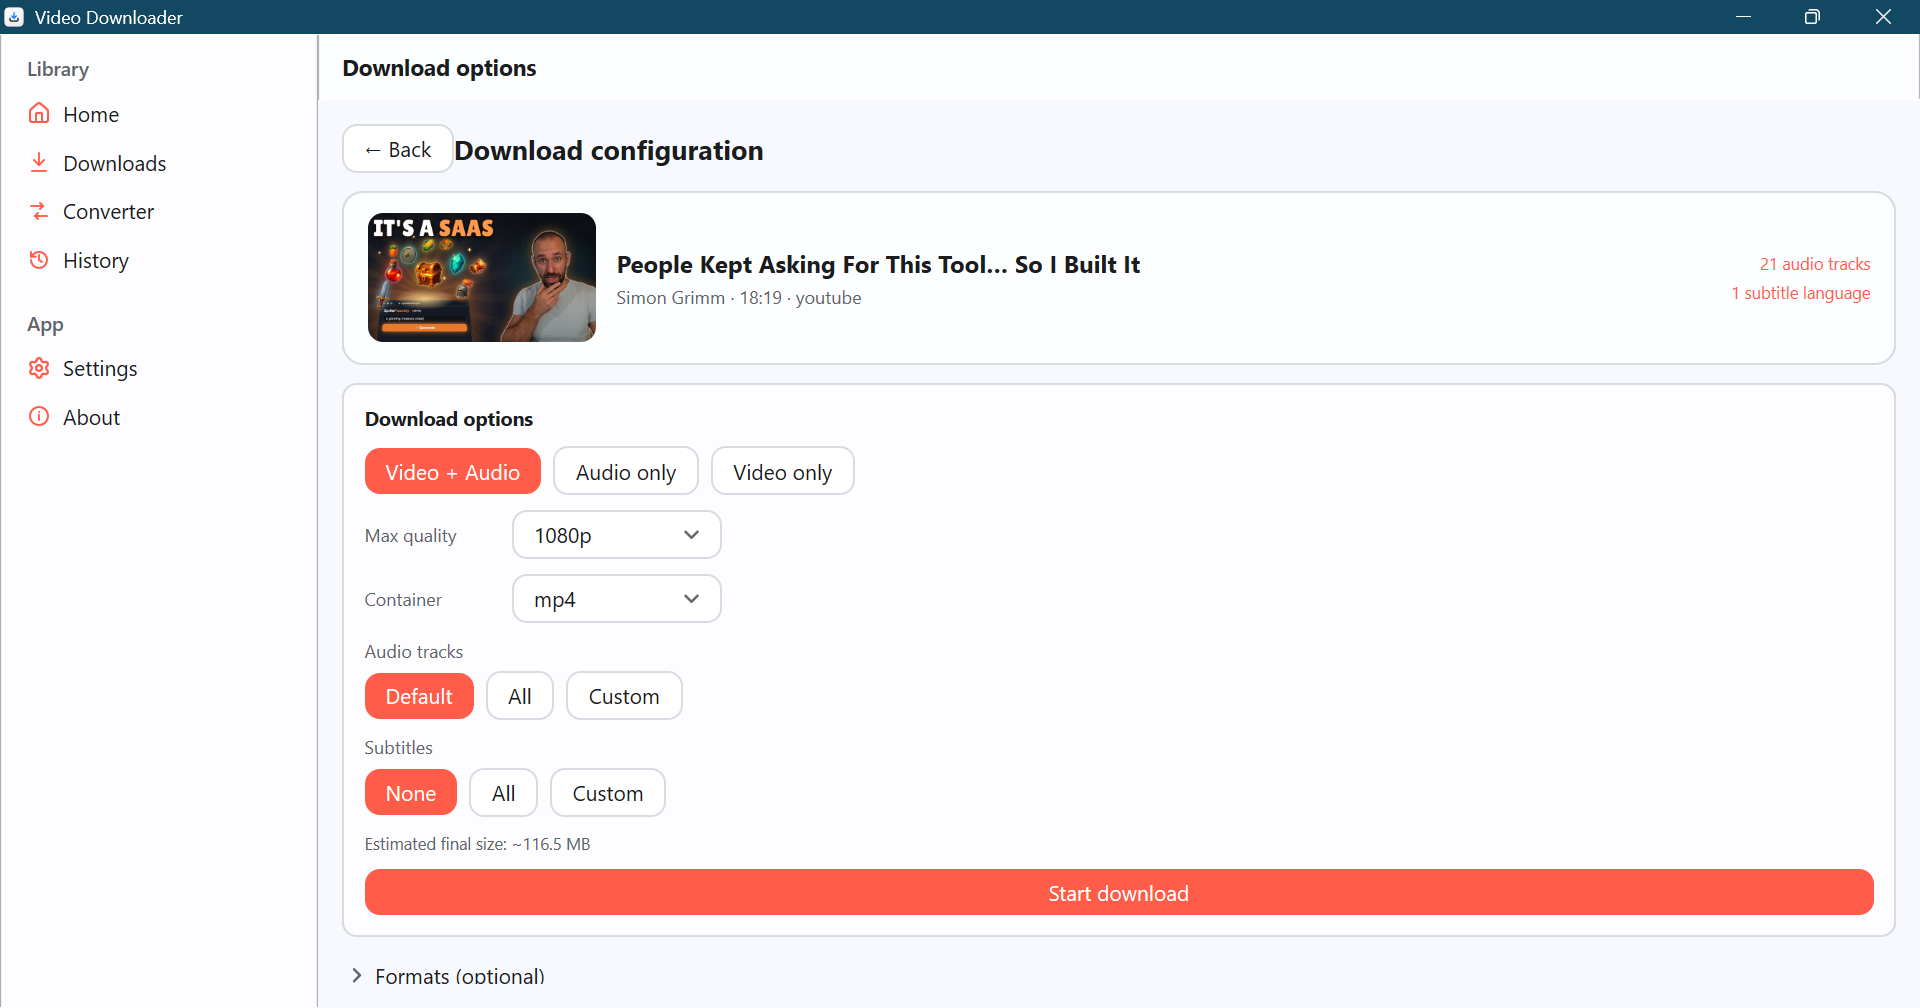
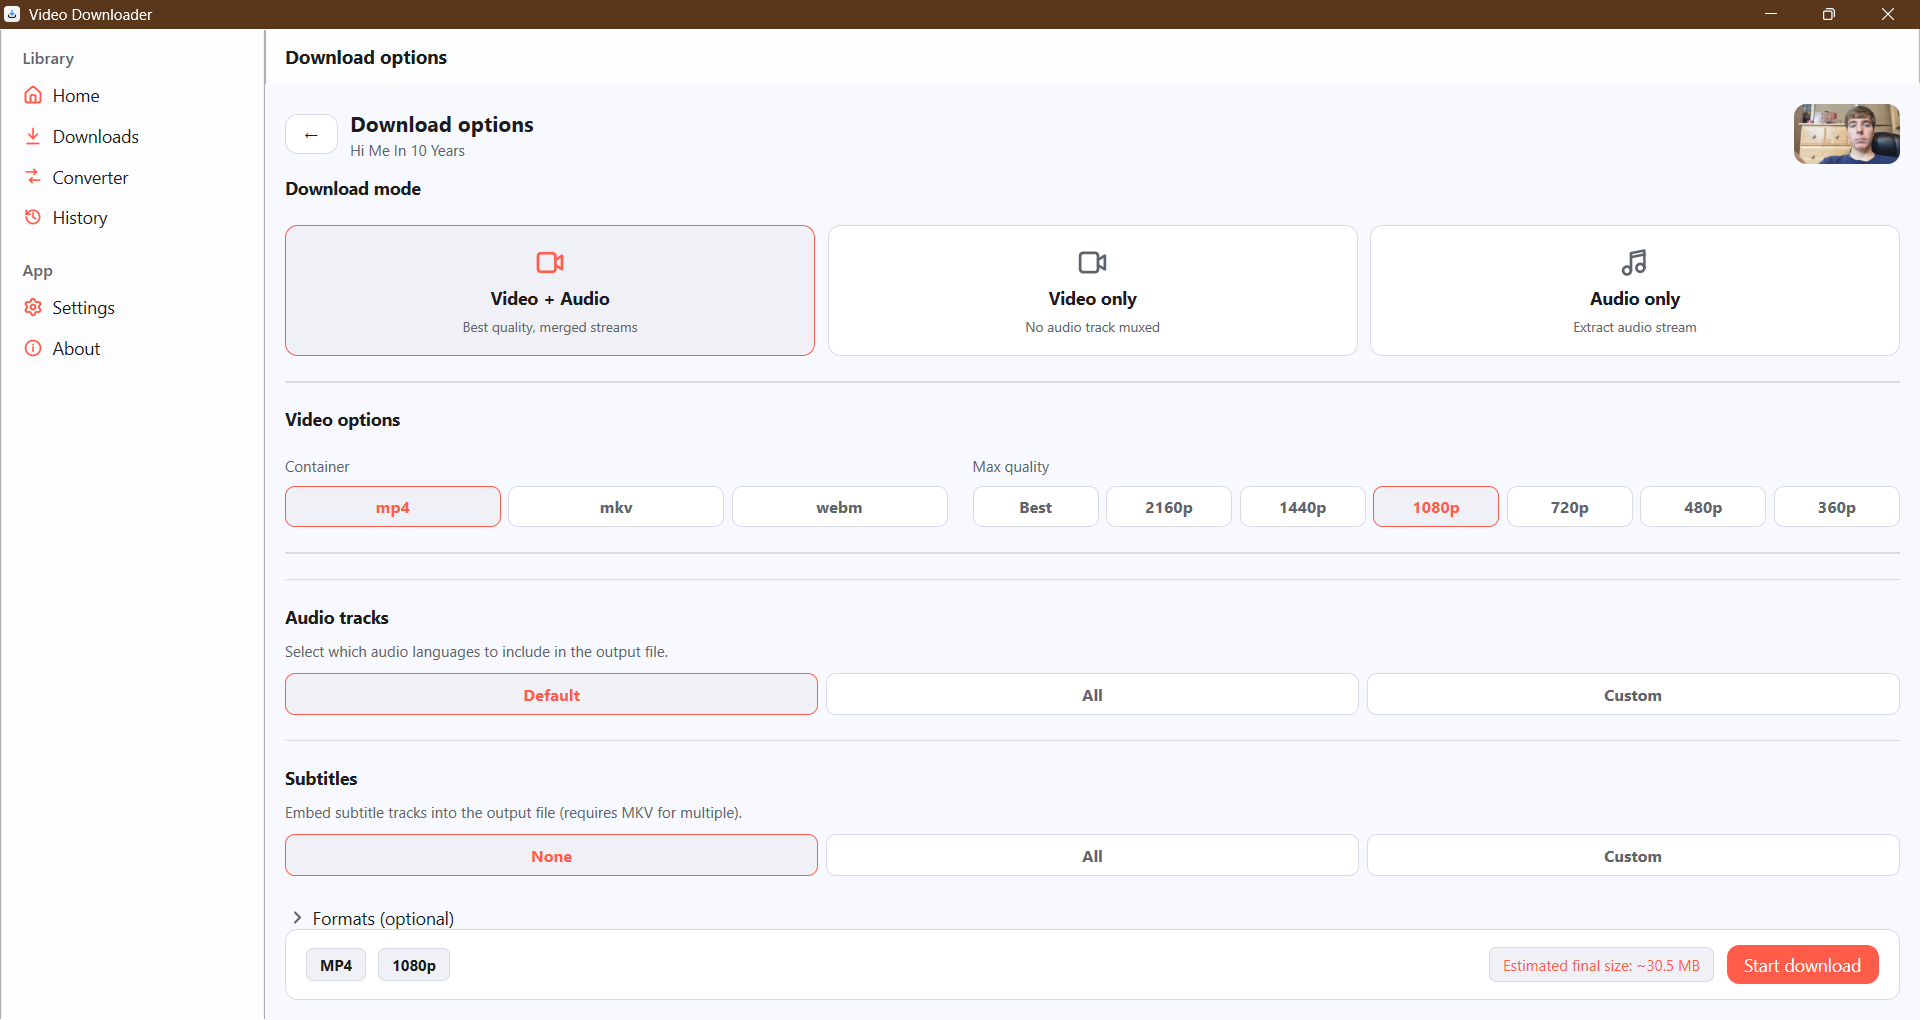
feat: redesign About screen to match reference app UI
- Centered 620px card with 1:2 vertical spacing above/below
- Large 84x84 accent logo box (radius 20, white icon)
- App name 28px bold; version pill (SurfaceHover + border + 999 radius)
- Description text 14px muted, maxwidth 460
- Divider separator
- Developer credit + outlined link buttons with icon+label
  (GitHub, Website, Reference app, Repository, Report issue)
- Tech stack row: Go / MyGo / yt-dlp / FFmpeg chips
- License line via ui.Link
- New aboutLinkBtn helper (ui.Row + border + ui.Icon + ui.Link)
- Also compress resources/audio.png (57KB reduction)

diff --git a/internal/app/preferences_view.go b/internal/app/preferences_view.go
@@ -246,30 +246,77 @@ func (a *App) refinedSettingsPage(c *ui.Context) {
 
 func (a *App) refinedAboutPage(c *ui.Context) {
 	t := c.Theme()
-	ui.Scroll(c).Grow(1).Children(func() {
-		ui.Column(c).FillWidth().MaxWidth(700).Material(glass.Glass{Clarity: 0.2}).Border(1, c.Theme().Border).Radius(16).Center().Gap(10).Padding(24, 12).Children(func() {
-			ui.Box(c).Size(72, 72).Background(t.Accent).Radius(22).Center().Children(func() {
-				ui.Icon(c, appui.IconDownload).FontSize(34).TextColor(ui.Color{R: 255, G: 255, B: 255, A: 255})
-			})
-			ui.Text(c, "Video Downloader").FontSize(24).Bold()
-			ui.Text(c, "MyGo native desktop app").FontSize(13).TextColor(t.TextMuted)
-			ui.Text(c, "v3.2.0").FontSize(12).TextColor(t.Accent)
-			ui.Text(c, "Rewritten from the Flet + Python original by Fazi Gondal.").FontSize(13).TextColor(t.TextMuted).MaxWidth(480)
+	// Center the card vertically: 1 unit of space above, 2 below (matches reference).
+	ui.Column(c).Grow(1).FillWidth().Children(func() {
+		ui.Spacer(c).Grow(1)
+		ui.Scroll(c).FillWidth().Children(func() {
+			ui.Column(c).FillWidth().Center().Padding(0, 16).Children(func() {
+				// ── card ─────────────────────────────────────────────────────
+				ui.Column(c).Width(620).Background(t.Surface).Border(1, t.Border).Radius(16).Padding(36, 40).Gap(14).AlignItems(ui.Center).Children(func() {
 
-			ui.Row(c).Gap(8).Wrap().Justify(ui.Center).Children(func() {
-				techChip(c, "Go")
-				techChip(c, "MyGo")
-				techChip(c, "yt-dlp")
-				techChip(c, "FFmpeg")
-			})
-			ui.Row(c).Gap(14).Wrap().Justify(ui.Center).Children(func() {
-				ui.Link(c, "Original reference", "https://github.com/fazi-gondal/Video-Downloader")
-				ui.Link(c, "Project repository", "https://github.com/fazi-gondal/video-downloader-mygo")
-				ui.Link(c, "Report an issue", "https://github.com/fazi-gondal/video-downloader-mygo/issues")
-				ui.Link(c, "MIT license", "https://github.com/fazi-gondal/video-Downloader-mygo/blob/main/LICENSE")
+					// Logo
+					ui.Box(c).Size(84, 84).Background(t.Accent).Radius(20).Center().Children(func() {
+						ui.Icon(c, appui.IconDownload).FontSize(40).TextColor(ui.Color{R: 255, G: 255, B: 255, A: 255})
+					})
+
+					// App name
+					ui.Text(c, "Video Downloader").FontSize(28).Bold()
+
+					// Version pill
+					ui.Row(c).Background(t.SurfaceHover).Border(1, t.Border).Radius(999).Padding(5, 14).Children(func() {
+						ui.Text(c, "v3.0.0 · Open-source media downloader").FontSize(12).Bold().TextColor(t.TextMuted)
+					})
+
+					// Description
+					ui.Text(c, "Download, convert, and organize media from YouTube, TikTok, Instagram, X, ARY Plus, and more. Native Go desktop app — fast, lightweight, no Electron.").
+						FontSize(14).TextColor(t.TextMuted).MaxWidth(460)
+
+					// Divider
+					ui.Box(c).FillWidth().Height(1).Background(t.Border)
+
+					// Developer credit
+					ui.Text(c, "Developed by Faizan Gondal").FontSize(14).Bold()
+
+					// Link buttons row (outlined style)
+					ui.Row(c).Gap(8).Wrap().Justify(ui.Center).Children(func() {
+						aboutLinkBtn(c, t, appui.IconLink, "GitHub", "https://github.com/fazi-gondal")
+						aboutLinkBtn(c, t, appui.IconLink, "Website", "https://codewithfazi.vercel.app/")
+						aboutLinkBtn(c, t, appui.IconVideo, "Reference app", "https://github.com/fazi-gondal/Video-Downloader")
+						aboutLinkBtn(c, t, appui.IconDownload, "Repository", "https://github.com/fazi-gondal/video-downloader-mygo")
+						aboutLinkBtn(c, t, appui.IconSettings, "Report issue", "https://github.com/fazi-gondal/video-downloader-mygo/issues")
+					})
+
+					// Tech stack label + chips
+					ui.Text(c, "BUILT WITH").FontSize(10).Bold().TextColor(t.TextMuted)
+					ui.Row(c).Gap(8).Wrap().Justify(ui.Center).Children(func() {
+						techChip(c, "Go")
+						techChip(c, "MyGo")
+						techChip(c, "yt-dlp")
+						techChip(c, "FFmpeg")
+					})
+
+					// License line
+					ui.Link(c, "© 2026 Faizan Gondal · MIT License", "https://github.com/fazi-gondal/video-downloader-mygo/blob/main/LICENSE").FontSize(12)
+				})
 			})
 		})
+		ui.Spacer(c).Grow(2)
 	})
+}
+
+// aboutLinkBtn renders an outlined button that opens a URL when clicked.
+func aboutLinkBtn(c *ui.Context, t *ui.Theme, icon *ui.SVG, label, url string) {
+	ui.Row(c.Key("abt-"+label)).
+		Background(ui.Color{}).
+		Border(1, t.Border).
+		Radius(10).
+		Padding(10, 16).
+		Gap(6).
+		AlignItems(ui.Center).
+		Children(func() {
+			ui.Icon(c, icon).FontSize(14).TextColor(t.TextMuted)
+			ui.Link(c, label, url).FontSize(13)
+		})
 }
 
 func settingsCard(c *ui.Context, title, subtitle string, children func()) {
